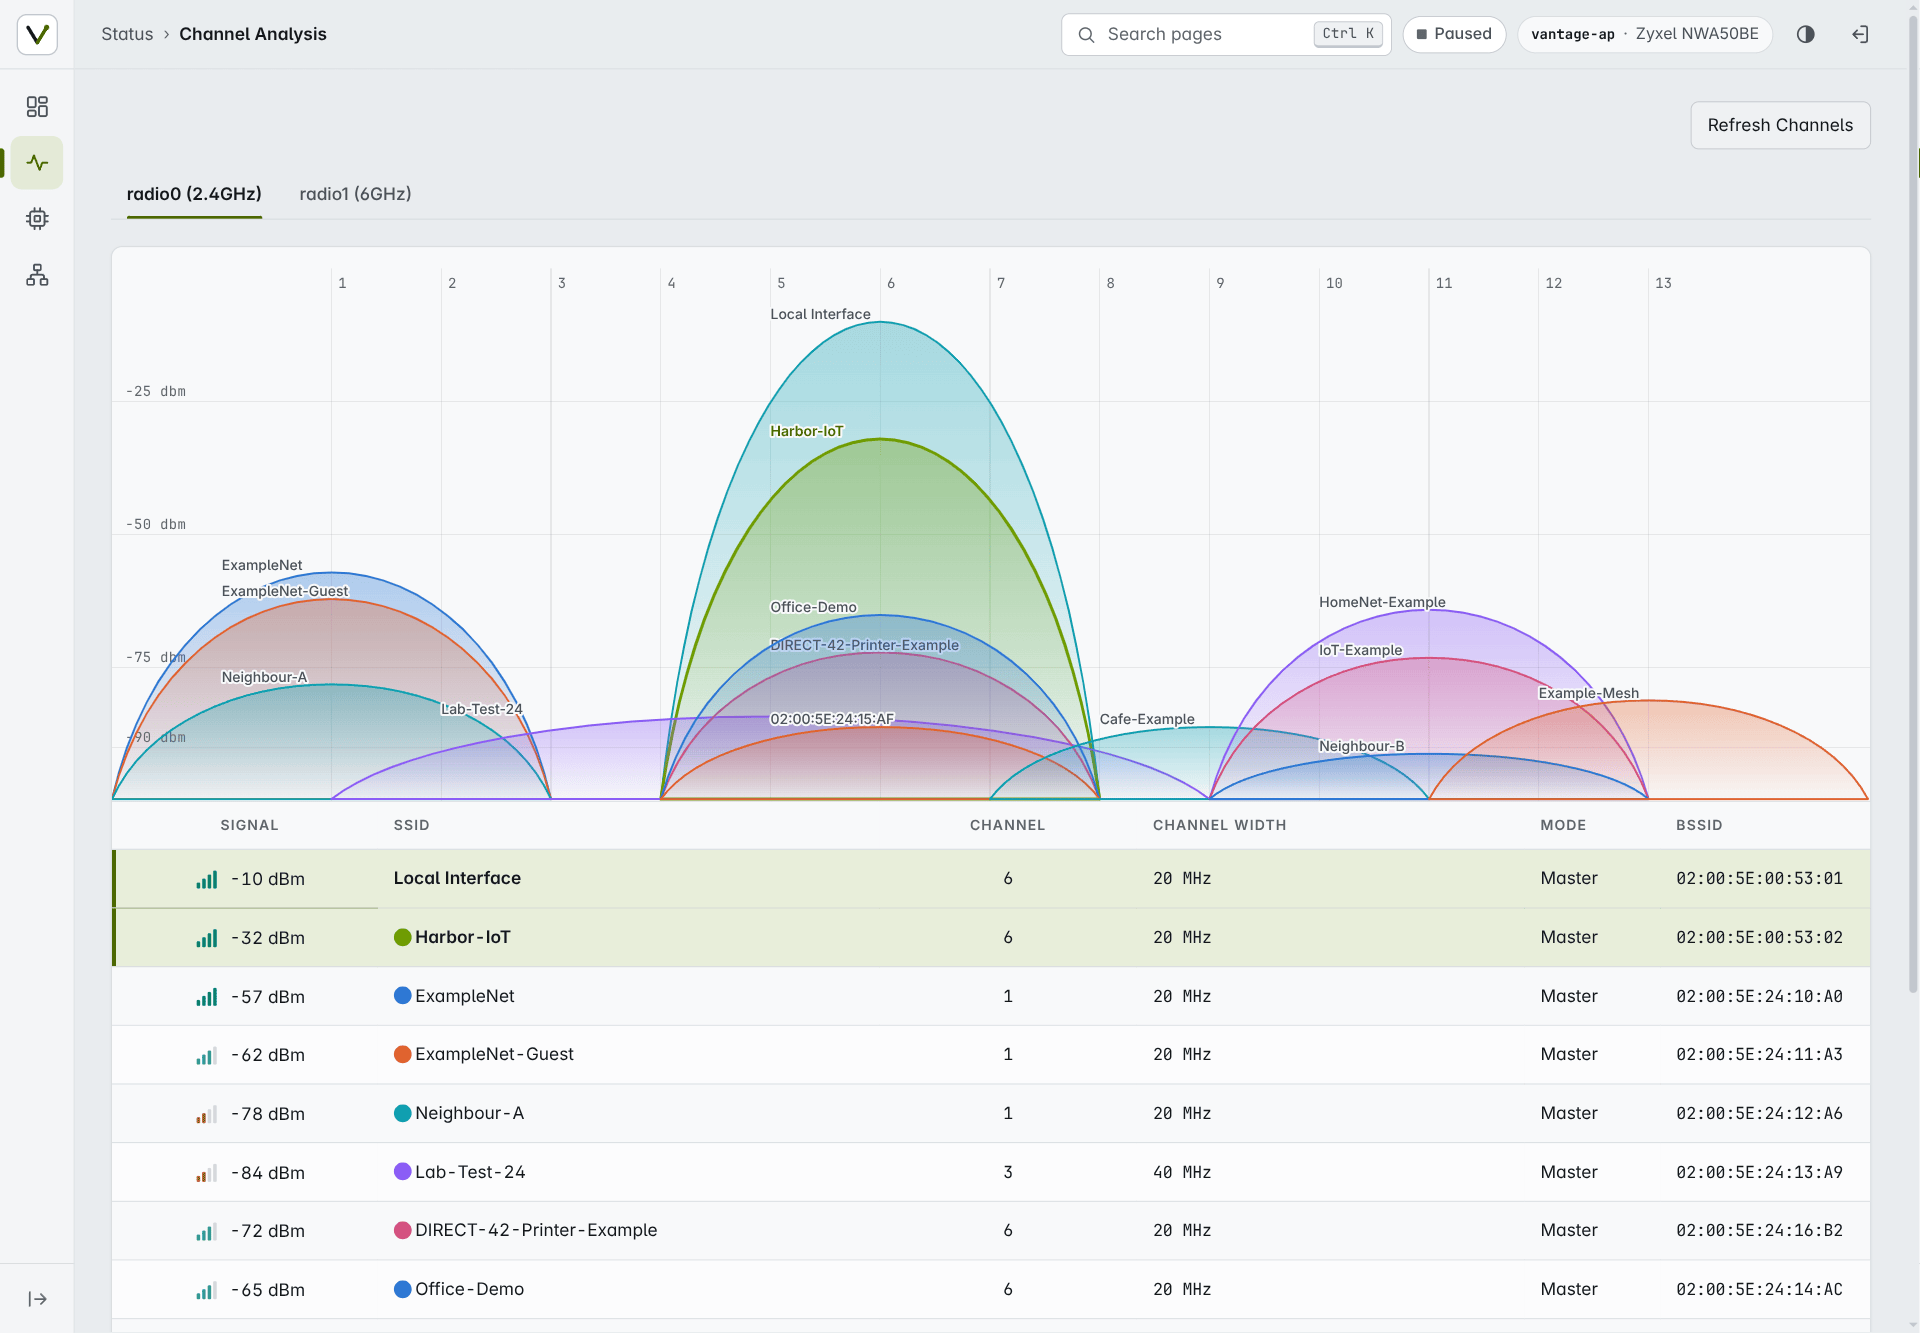
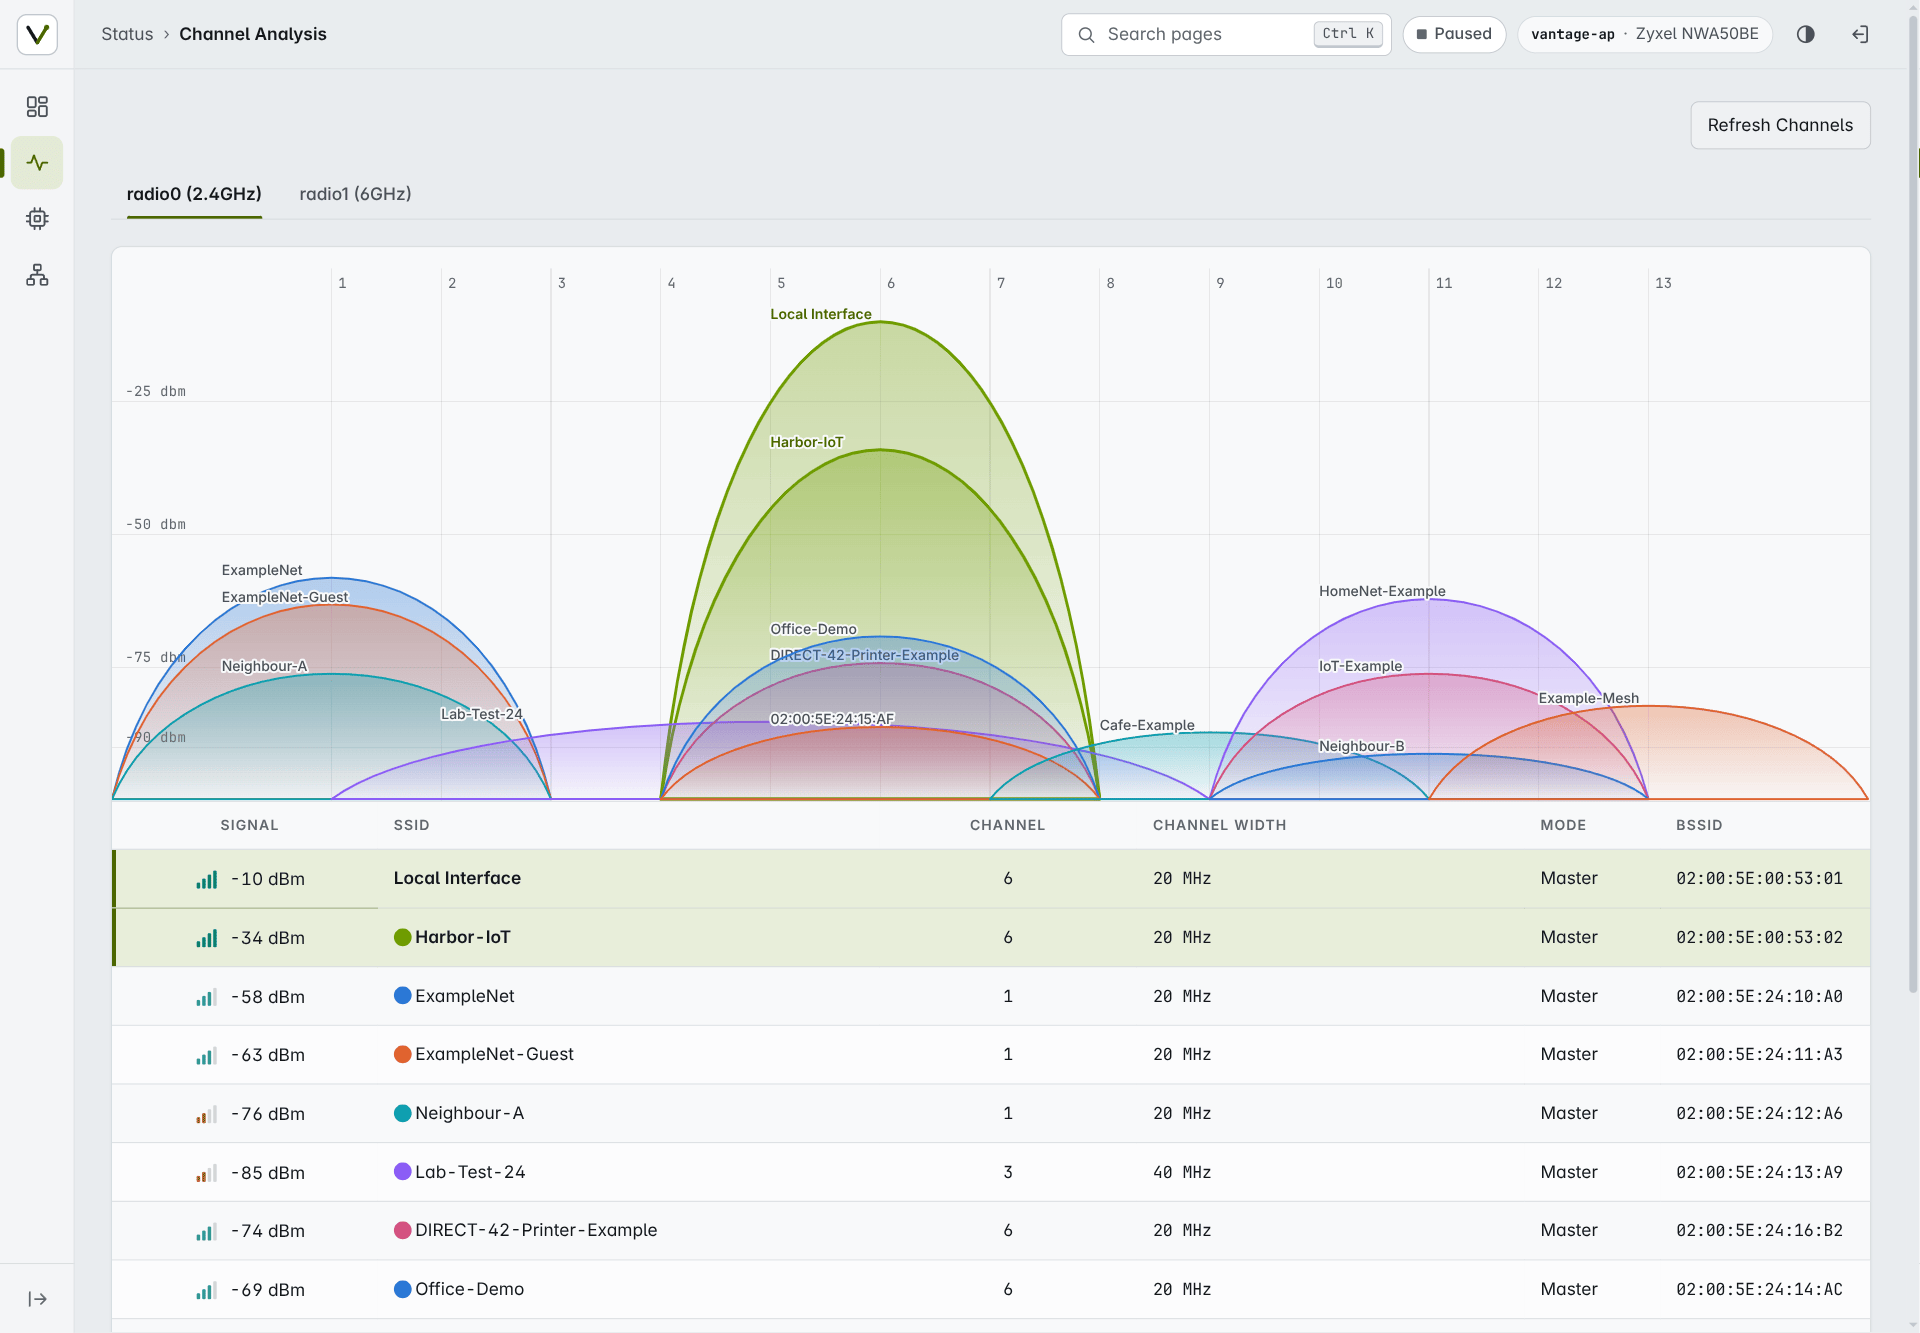
Channel Analysis: colour the device's own hump with the accent
luci-theme-vantage: the view prints its own interface's row ("Local
Interface") without the colour dot it gives every scanned network, so
the theme could mark the row as ours by BSSID but never tied the hump
to it, and the hump took a neighbour colour. Rebuild that colour the
way the view makes it, with tools.prng's derive_color on the BSSID as
printed (the derivation is case-sensitive); the view has loaded the
module already and derive_color reseeds on every call, so the view's
own colours are unchanged. Ownership is still decided by BSSID only.
Without the module the old behaviour stays.

tests: the derivation is wired to own rows only; hexRgb reads back like
element.style and rejects anything but #rrggbb.

docs: retake the Channel Analysis screenshot.

Changed region(s): [[0.0625, 0.2153, 0.9375, 0.5844], [0.9375, 0.5536, 0.9688, 0.5844], [0.75, 0.5536, 0.7812, 0.5844]]

diff --git a/luci-theme-vantage/htdocs/luci-static/resources/menu-vantage.js b/luci-theme-vantage/htdocs/luci-static/resources/menu-vantage.js
@@ -416,11 +416,18 @@ function humpPath(points) {
 	return 'M' + r(x0) + ',' + r(base) + 'C' + r(x0 + k) + ',' + r(cy) + ' ' + r(x3 - k) + ',' + r(cy) + ' ' + r(x3) + ',' + r(base) + 'Z';
 }
 
+/* "#89cdb4" -> "rgb(137, 205, 180)", the form element.style reads back */
+function hexRgb(hex) {
+	const m = /^#([0-9a-f]{2})([0-9a-f]{2})([0-9a-f]{2})$/i.exec(String(hex));
+	return m ? 'rgb(' + [ m[1], m[2], m[3] ].map(h => parseInt(h, 16)).join(', ') + ')' : null;
+}
+
 function setupChannelAnalysis() {
 	const view = document.getElementById('view');
 	const own = new Set();
 	const slots = new Map();
 	let next = 0;
+	let colourOf = null;
 	/* slot 1 (the accent) is the AP itself; neighbours take 2..6 in the order
 	   they first appear (the view sorts by channel, so neighbours differ) */
 	const slotFor = (colour, mine) => {
@@ -461,9 +468,17 @@ function setupChannelAnalysis() {
 				const dot = tr.querySelector('span[style*="color"]');
 				const cells = tr.querySelectorAll(':scope > td, :scope > .td');
 				if (!cells.length) return;
-				const bssid = cells[cells.length - 1].textContent.trim().toUpperCase();
+				const printed = cells[cells.length - 1].textContent.trim();
+				const bssid = printed.toUpperCase();
 				const mine = own.has(bssid);
 				if (tr.classList.contains('v-ca-own') !== mine) tr.classList.toggle('v-ca-own', mine);
+				/* the view prints its own interface's row without the colour
+				   dot, so rebuild that colour the way the view made it: from
+				   the BSSID as printed (the derivation is case-sensitive) */
+				if (mine && colourOf) {
+					const derived = hexRgb(colourOf(printed));
+					if (derived) mineByColour.set(derived, true);
+				}
 				if (!dot) return;
 				const colour = dot.style.color;
 				if (mine) mineByColour.set(colour, true);
@@ -537,7 +552,15 @@ function setupChannelAnalysis() {
 		busy = false;
 	};
 
-	L.resolveDefault(callWirelessDevices(), {}).then(devs => {
+	/* tools.prng is what the view colours networks with (it is loaded
+	   already); derive_color reseeds on every call, so calling it here
+	   leaves the view's colours as they are */
+	Promise.all([
+		L.resolveDefault(callWirelessDevices(), {}),
+		L.resolveDefault(L.require('tools.prng'), null)
+	]).then(([ devs, prng ]) => {
+		if (prng && typeof prng.derive_color === 'function')
+			colourOf = b => prng.derive_color(b);
 		for (const r of Object.values(devs || {}))
 			for (const i of (r && Array.isArray(r.interfaces)) ? r.interfaces : [])
 				[ i.iwinfo && i.iwinfo.bssid, i.config && i.config.macaddr ].forEach(b => {

diff --git a/tests/theme.test.js b/tests/theme.test.js
@@ -90,4 +90,19 @@ test('channel analysis: a row or hump is ours by BSSID only', () => {
 	assert.match(src, /const mine = mineByColour\.has\(colour\);/);
 	/* own BSSIDs come from this device's interfaces */
 	assert.match(src, /\[ i\.iwinfo && i\.iwinfo\.bssid, i\.config && i\.config\.macaddr \]/);
+	/* the view's own row has no colour dot: its colour is rebuilt with the
+	   view's derive_color from the BSSID as printed, not upper-cased */
+	assert.match(src, /L\.require\('tools\.prng'\)/);
+	assert.match(src, /if \(mine && colourOf\) \{\s*const derived = hexRgb\(colourOf\(printed\)\);/);
+});
+
+test('channel analysis: a derived colour reads back like element.style', () => {
+	const start = src.indexOf('function hexRgb(');
+	assert.ok(start > 0, 'found hexRgb');
+	const end = src.indexOf('\n}\n', start) + 3;
+	const hexRgb = new Function(src.slice(start, end) + '\nreturn hexRgb;')();
+	assert.equal(hexRgb('#89cdb4'), 'rgb(137, 205, 180)');
+	assert.equal(hexRgb('#FFFFFF'), 'rgb(255, 255, 255)');
+	for (const bad of [ '#fff', 'red', '', null, undefined, '#89cdb4 ', 'rgb(1, 2, 3)' ])
+		assert.equal(hexRgb(bad), null, String(bad));
 });
